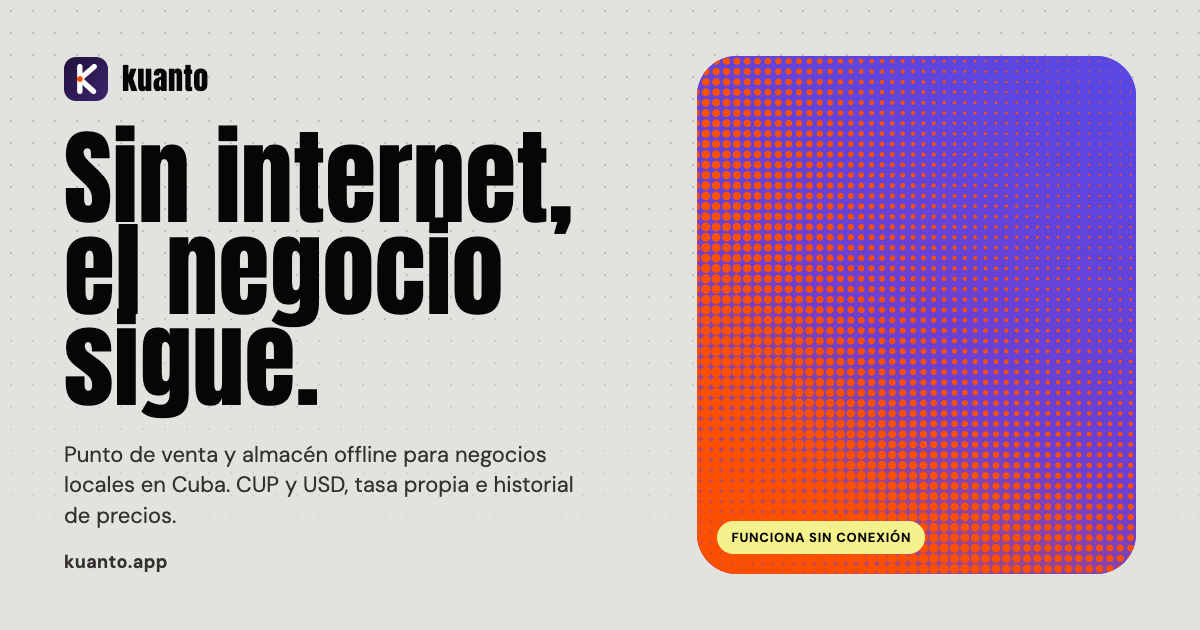
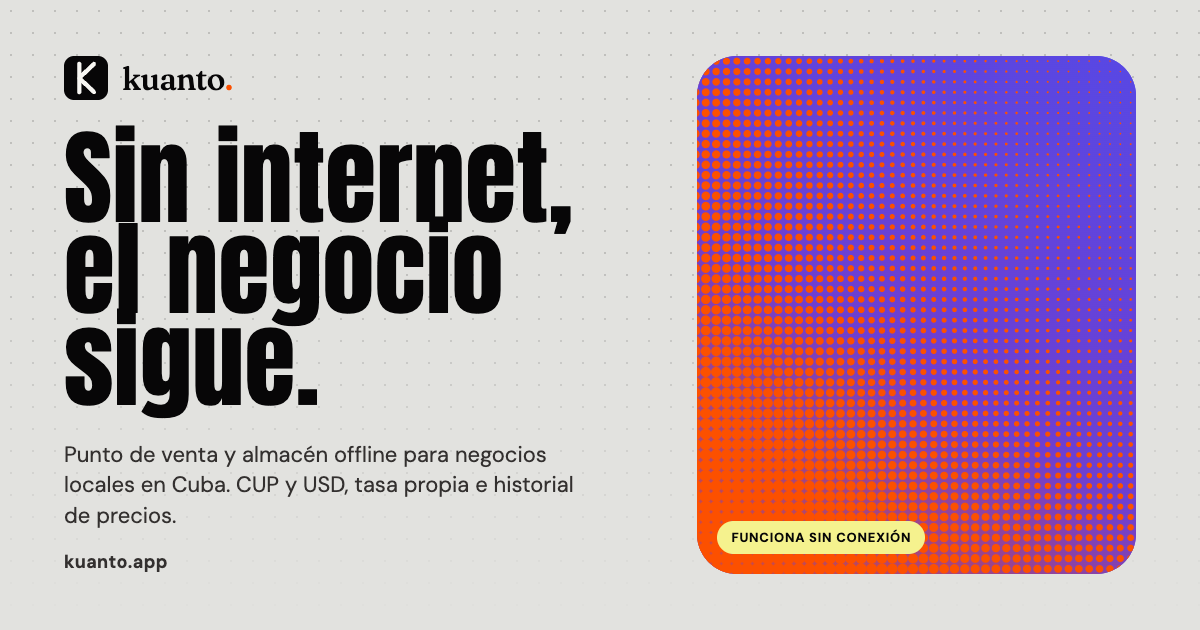
feat(brand): implementar el cuño (variante 4) y el wordmark Fraunces

diff --git a/src/styles/app.css b/src/styles/app.css
@@ -258,11 +258,14 @@ section[id] {
   display: block;
 }
 .brand__name {
-  font-family: var(--font-display);
-  font-size: 23px;
+  font-family: var(--font-brand);
+  font-weight: 500;
+  font-size: 28px;
   line-height: 1;
-  letter-spacing: 0.02em;
-  text-transform: lowercase;
+  letter-spacing: -0.015em;
+}
+.brand__dot {
+  color: var(--ember);
 }
 
 .nav__sep {
@@ -1342,12 +1345,12 @@ section[id] {
   border-radius: 12px;
 }
 .footer__name {
-  font-family: var(--font-display);
-  font-size: 26px;
+  font-family: var(--font-brand);
+  font-weight: 500;
+  font-size: 30px;
   line-height: 1;
-  letter-spacing: 0.02em;
+  letter-spacing: -0.015em;
   color: var(--chalk);
-  text-transform: lowercase;
 }
 .footer__tag {
   margin-top: 8px;

diff --git a/src/styles/tokens.css b/src/styles/tokens.css
@@ -11,6 +11,14 @@
 }
 
 @font-face {
+  font-family: 'Fraunces';
+  font-style: normal;
+  font-weight: 300 700;
+  font-display: swap;
+  src: url('../assets/fonts/fraunces-latin.woff2') format('woff2');
+}
+
+@font-face {
   font-family: 'DM Sans';
   font-style: normal;
   font-weight: 100 900;
@@ -50,6 +58,7 @@
   --gap: clamp(20px, 3vw, 40px);
 
   /* Tipografía */
+  --font-brand: 'Fraunces', Georgia, serif;
   --font-display: 'Anton', 'Arial Narrow', 'Haettenschweiler', sans-serif;
   --font-body: 'DM Sans', system-ui, -apple-system, 'Segoe UI', sans-serif;
 

diff --git a/src/components/Nav.tsx b/src/components/Nav.tsx
@@ -7,7 +7,7 @@ export function Nav() {
       <nav className="nav" aria-label="Principal">
         <a className="brand" href="#inicio" aria-label="Kuanto, ir al inicio">
           <img src={logo} alt="" width={34} height={34} />
-          <span className="brand__name">kuanto</span>
+          <span className="brand__name">kuanto<span className="brand__dot">.</span></span>
         </a>
         <span className="nav__sep" aria-hidden="true" />
         <div className="nav__links">

diff --git a/src/components/Footer.tsx b/src/components/Footer.tsx
@@ -8,7 +8,7 @@ export function Footer() {
         <div className="footer__brand">
           <img src={logoLight} alt="" width={44} height={44} />
           <div>
-            <p className="footer__name">kuanto</p>
+            <p className="footer__name">kuanto<span className="brand__dot">.</span></p>
             <p className="footer__tag">{footer.tagline}</p>
           </div>
         </div>
